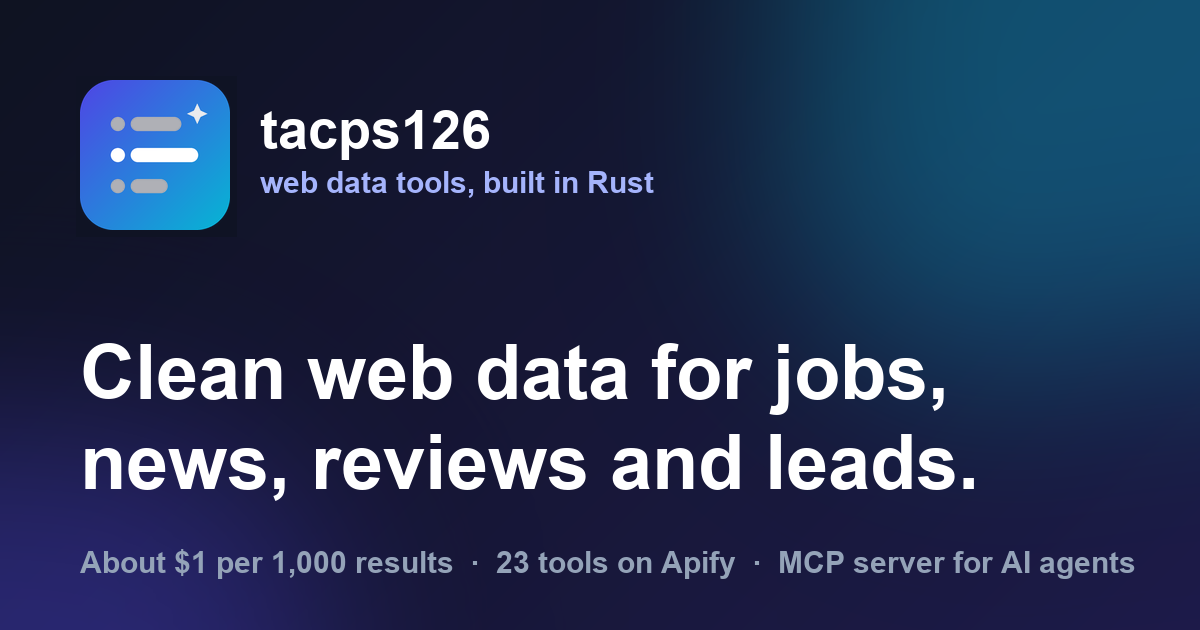
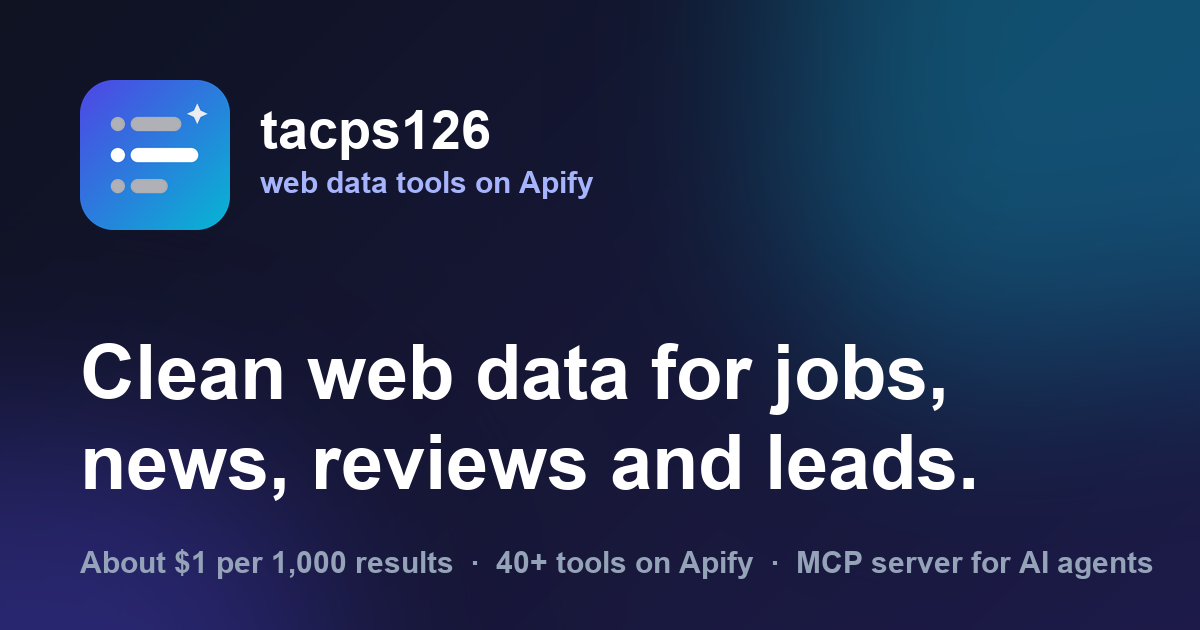
Site: drop stack wording, regenerate og image, rebuild

Changed region(s): [[0.4008, 0.8746, 0.9558, 0.9349], [0.4008, 0.2714, 0.555, 0.3317]]

diff --git a/index.html b/index.html
@@ -20,7 +20,7 @@
 <meta name="twitter:image" content="https://tacps126.github.io/og.png">
 <link rel="stylesheet" href="/style.css">
 <script>document.documentElement.classList.add('js');try{var t=localStorage.getItem('theme');if(t==='light'||t==='dark')document.documentElement.setAttribute('data-theme',t)}catch(e){}</script>
-<script type="application/ld+json">{"@context":"https://schema.org","@type":"WebSite","name":"Tapaswai Choudhary (tacps126)","url":"https://tacps126.github.io/","description":"Web data tools for jobs, news, reviews and leads, built in Rust.","author":{"@type":"Person","name":"Tapaswai Choudhary","alternateName":"tacps126","email":"tacps126@gmail.com","url":"https://github.com/tacps126"}}</script>
+<script type="application/ld+json">{"@context":"https://schema.org","@type":"WebSite","name":"Tapaswai Choudhary (tacps126)","url":"https://tacps126.github.io/","description":"Web data tools for jobs, news, reviews and leads","author":{"@type":"Person","name":"Tapaswai Choudhary","alternateName":"tacps126","email":"tacps126@gmail.com","url":"https://github.com/tacps126"}}</script>
 </head>
 <body>
 <div class="progress" aria-hidden="true"></div>
@@ -43,7 +43,7 @@
   <div class="wrap">
     <div class="hero-grid">
       <div>
-        <span class="eyebrow">Web data, built in Rust</span>
+        <span class="eyebrow">Web data, ready to use</span>
         <h1>Clean web data for <span class="grad" id="rotate" data-words="jobs, news, reviews and leads|remote and startup jobs|Reddit buying intent|Shopify store leads|trade-show exhibitors">jobs, news, reviews and leads</span></h1>
         <p class="lead">43 ready-made tools that turn public web pages into consistent, spreadsheet-ready data. Fast, cheap to run, pay per result, no subscription. Use them from Apify, from code, or from your AI agent.</p>
         <div class="cta-row">
@@ -315,9 +315,9 @@
 
 <section id="why">
   <div class="wrap">
-    <div class="sec-head reveal"><h2>Built to be fast and cheap to run</h2><p>The tools are small native programs, not heavy browser scripts. A typical run costs a fraction of a cent in platform usage, so the price you see is the price you pay.</p></div>
+    <div class="sec-head reveal"><h2>Built to be fast and cheap to run</h2><p>Runs start instantly and finish in seconds. A typical run costs a fraction of a cent in platform usage, so the price you see is the price you pay.</p></div>
     <div class="grid">
-      <div class="card reveal"><div class="ico"><svg viewBox="0 0 24 24"><path d="M13 2 4 14h7l-1 8 9-12h-7z"/></svg></div><h3>Rust, no browser by default</h3><p>Single static binaries that start instantly and run in 256 MB. A browser is used only where a site needs one.</p></div>
+      <div class="card reveal"><div class="ico"><svg viewBox="0 0 24 24"><path d="M13 2 4 14h7l-1 8 9-12h-7z"/></svg></div><h3>Fast and low cost</h3><p>Runs start instantly and finish in seconds, so platform usage stays a fraction of a cent for a typical run.</p></div>
       <div class="card reveal"><div class="ico"><svg viewBox="0 0 24 24"><circle cx="12" cy="12" r="9"/><path d="M14.5 9a2.5 2 0 0 0-2.5-1.5c-1.4 0-2.5.8-2.5 2s1 1.7 2.5 2 2.5.8 2.5 2-1.1 2-2.5 2A2.5 2 0 0 1 9.5 15M12 6v2M12 16v2"/></svg></div><h3>Pay per result</h3><p>About $1 per 1,000 results for most tools. Where nothing is found you are not charged, and you can cap spend per run.</p></div>
       <div class="card reveal"><div class="ico"><svg viewBox="0 0 24 24"><path d="M20 11a8 8 0 0 0-14.9-3M4 4v4h4M4 13a8 8 0 0 0 14.9 3M20 20v-4h-4"/></svg></div><h3>Only new, on a schedule</h3><p>Turn on only-new mode and each scheduled run returns just what changed, so alerts and feeds stay cheap.</p></div>
       <div class="card reveal"><div class="ico"><svg viewBox="0 0 24 24"><path d="M12 3 5 6v6c0 4.5 3 7.5 7 9 4-1.5 7-4.5 7-9V6z"/><path d="m9 12 2 2 4-4"/></svg></div><h3>Careful with limits</h3><p>Rate limits are respected, failed requests are retried, and runs resume without charging twice.</p></div>
@@ -386,7 +386,7 @@
 <footer>
   <div class="wrap">
     <div class="foot">
-      <div><strong style="color:var(--text)">Tapaswai Choudhary (tacps126)</strong><br>Web data tools, built in Rust.<br><a href="mailto:tacps126@gmail.com">tacps126@gmail.com</a></div>
+      <div><strong style="color:var(--text)">Tapaswai Choudhary (tacps126)</strong><br>Web data tools for jobs, news, reviews and leads.<br><a href="mailto:tacps126@gmail.com">tacps126@gmail.com</a></div>
       <ul>
         <li><a href="https://apify.com/tacps126">Tools on Apify</a></li>
         <li><a href="/mcp.html">MCP server</a></li>

diff --git a/mcp.html b/mcp.html
@@ -174,7 +174,7 @@
 <footer>
   <div class="wrap">
     <div class="foot">
-      <div><strong style="color:var(--text)">Tapaswai Choudhary (tacps126)</strong><br>Web data tools, built in Rust.<br><a href="mailto:tacps126@gmail.com">tacps126@gmail.com</a></div>
+      <div><strong style="color:var(--text)">Tapaswai Choudhary (tacps126)</strong><br>Web data tools for jobs, news, reviews and leads.<br><a href="mailto:tacps126@gmail.com">tacps126@gmail.com</a></div>
       <ul>
         <li><a href="https://apify.com/tacps126">Tools on Apify</a></li>
         <li><a href="/mcp.html">MCP server</a></li>

diff --git a/404.html b/404.html
@@ -43,7 +43,7 @@
 <footer>
   <div class="wrap">
     <div class="foot">
-      <div><strong style="color:var(--text)">Tapaswai Choudhary (tacps126)</strong><br>Web data tools, built in Rust.<br><a href="mailto:tacps126@gmail.com">tacps126@gmail.com</a></div>
+      <div><strong style="color:var(--text)">Tapaswai Choudhary (tacps126)</strong><br>Web data tools for jobs, news, reviews and leads.<br><a href="mailto:tacps126@gmail.com">tacps126@gmail.com</a></div>
       <ul>
         <li><a href="https://apify.com/tacps126">Tools on Apify</a></li>
         <li><a href="/mcp.html">MCP server</a></li>

diff --git a/leads/ahr-expo.html b/leads/ahr-expo.html
@@ -63,7 +63,7 @@
 <footer>
   <div class="wrap">
     <div class="foot">
-      <div><strong style="color:var(--text)">Tapaswai Choudhary (tacps126)</strong><br>Web data tools, built in Rust.<br><a href="mailto:tacps126@gmail.com">tacps126@gmail.com</a></div>
+      <div><strong style="color:var(--text)">Tapaswai Choudhary (tacps126)</strong><br>Web data tools for jobs, news, reviews and leads.<br><a href="mailto:tacps126@gmail.com">tacps126@gmail.com</a></div>
       <ul>
         <li><a href="https://apify.com/tacps126">Tools on Apify</a></li>
         <li><a href="/mcp.html">MCP server</a></li>

diff --git a/leads/biofach.html b/leads/biofach.html
@@ -63,7 +63,7 @@
 <footer>
   <div class="wrap">
     <div class="foot">
-      <div><strong style="color:var(--text)">Tapaswai Choudhary (tacps126)</strong><br>Web data tools, built in Rust.<br><a href="mailto:tacps126@gmail.com">tacps126@gmail.com</a></div>
+      <div><strong style="color:var(--text)">Tapaswai Choudhary (tacps126)</strong><br>Web data tools for jobs, news, reviews and leads.<br><a href="mailto:tacps126@gmail.com">tacps126@gmail.com</a></div>
       <ul>
         <li><a href="https://apify.com/tacps126">Tools on Apify</a></li>
         <li><a href="/mcp.html">MCP server</a></li>

diff --git a/leads/index.html b/leads/index.html
@@ -43,7 +43,7 @@
 <footer>
   <div class="wrap">
     <div class="foot">
-      <div><strong style="color:var(--text)">Tapaswai Choudhary (tacps126)</strong><br>Web data tools, built in Rust.<br><a href="mailto:tacps126@gmail.com">tacps126@gmail.com</a></div>
+      <div><strong style="color:var(--text)">Tapaswai Choudhary (tacps126)</strong><br>Web data tools for jobs, news, reviews and leads.<br><a href="mailto:tacps126@gmail.com">tacps126@gmail.com</a></div>
       <ul>
         <li><a href="https://apify.com/tacps126">Tools on Apify</a></li>
         <li><a href="/mcp.html">MCP server</a></li>

diff --git a/leads/ish.html b/leads/ish.html
@@ -63,7 +63,7 @@
 <footer>
   <div class="wrap">
     <div class="foot">
-      <div><strong style="color:var(--text)">Tapaswai Choudhary (tacps126)</strong><br>Web data tools, built in Rust.<br><a href="mailto:tacps126@gmail.com">tacps126@gmail.com</a></div>
+      <div><strong style="color:var(--text)">Tapaswai Choudhary (tacps126)</strong><br>Web data tools for jobs, news, reviews and leads.<br><a href="mailto:tacps126@gmail.com">tacps126@gmail.com</a></div>
       <ul>
         <li><a href="https://apify.com/tacps126">Tools on Apify</a></li>
         <li><a href="/mcp.html">MCP server</a></li>

diff --git a/leads/ism-cologne.html b/leads/ism-cologne.html
@@ -63,7 +63,7 @@
 <footer>
   <div class="wrap">
     <div class="foot">
-      <div><strong style="color:var(--text)">Tapaswai Choudhary (tacps126)</strong><br>Web data tools, built in Rust.<br><a href="mailto:tacps126@gmail.com">tacps126@gmail.com</a></div>
+      <div><strong style="color:var(--text)">Tapaswai Choudhary (tacps126)</strong><br>Web data tools for jobs, news, reviews and leads.<br><a href="mailto:tacps126@gmail.com">tacps126@gmail.com</a></div>
       <ul>
         <li><a href="https://apify.com/tacps126">Tools on Apify</a></li>
         <li><a href="/mcp.html">MCP server</a></li>

diff --git a/leads/medica.html b/leads/medica.html
@@ -63,7 +63,7 @@
 <footer>
   <div class="wrap">
     <div class="foot">
-      <div><strong style="color:var(--text)">Tapaswai Choudhary (tacps126)</strong><br>Web data tools, built in Rust.<br><a href="mailto:tacps126@gmail.com">tacps126@gmail.com</a></div>
+      <div><strong style="color:var(--text)">Tapaswai Choudhary (tacps126)</strong><br>Web data tools for jobs, news, reviews and leads.<br><a href="mailto:tacps126@gmail.com">tacps126@gmail.com</a></div>
       <ul>
         <li><a href="https://apify.com/tacps126">Tools on Apify</a></li>
         <li><a href="/mcp.html">MCP server</a></li>

diff --git a/leads/orgatec.html b/leads/orgatec.html
@@ -63,7 +63,7 @@
 <footer>
   <div class="wrap">
     <div class="foot">
-      <div><strong style="color:var(--text)">Tapaswai Choudhary (tacps126)</strong><br>Web data tools, built in Rust.<br><a href="mailto:tacps126@gmail.com">tacps126@gmail.com</a></div>
+      <div><strong style="color:var(--text)">Tapaswai Choudhary (tacps126)</strong><br>Web data tools for jobs, news, reviews and leads.<br><a href="mailto:tacps126@gmail.com">tacps126@gmail.com</a></div>
       <ul>
         <li><a href="https://apify.com/tacps126">Tools on Apify</a></li>
         <li><a href="/mcp.html">MCP server</a></li>

diff --git a/leads/prowein.html b/leads/prowein.html
@@ -63,7 +63,7 @@
 <footer>
   <div class="wrap">
     <div class="foot">
-      <div><strong style="color:var(--text)">Tapaswai Choudhary (tacps126)</strong><br>Web data tools, built in Rust.<br><a href="mailto:tacps126@gmail.com">tacps126@gmail.com</a></div>
+      <div><strong style="color:var(--text)">Tapaswai Choudhary (tacps126)</strong><br>Web data tools for jobs, news, reviews and leads.<br><a href="mailto:tacps126@gmail.com">tacps126@gmail.com</a></div>
       <ul>
         <li><a href="https://apify.com/tacps126">Tools on Apify</a></li>
         <li><a href="/mcp.html">MCP server</a></li>

diff --git a/leads/wine-paris.html b/leads/wine-paris.html
@@ -63,7 +63,7 @@
 <footer>
   <div class="wrap">
     <div class="foot">
-      <div><strong style="color:var(--text)">Tapaswai Choudhary (tacps126)</strong><br>Web data tools, built in Rust.<br><a href="mailto:tacps126@gmail.com">tacps126@gmail.com</a></div>
+      <div><strong style="color:var(--text)">Tapaswai Choudhary (tacps126)</strong><br>Web data tools for jobs, news, reviews and leads.<br><a href="mailto:tacps126@gmail.com">tacps126@gmail.com</a></div>
       <ul>
         <li><a href="https://apify.com/tacps126">Tools on Apify</a></li>
         <li><a href="/mcp.html">MCP server</a></li>
